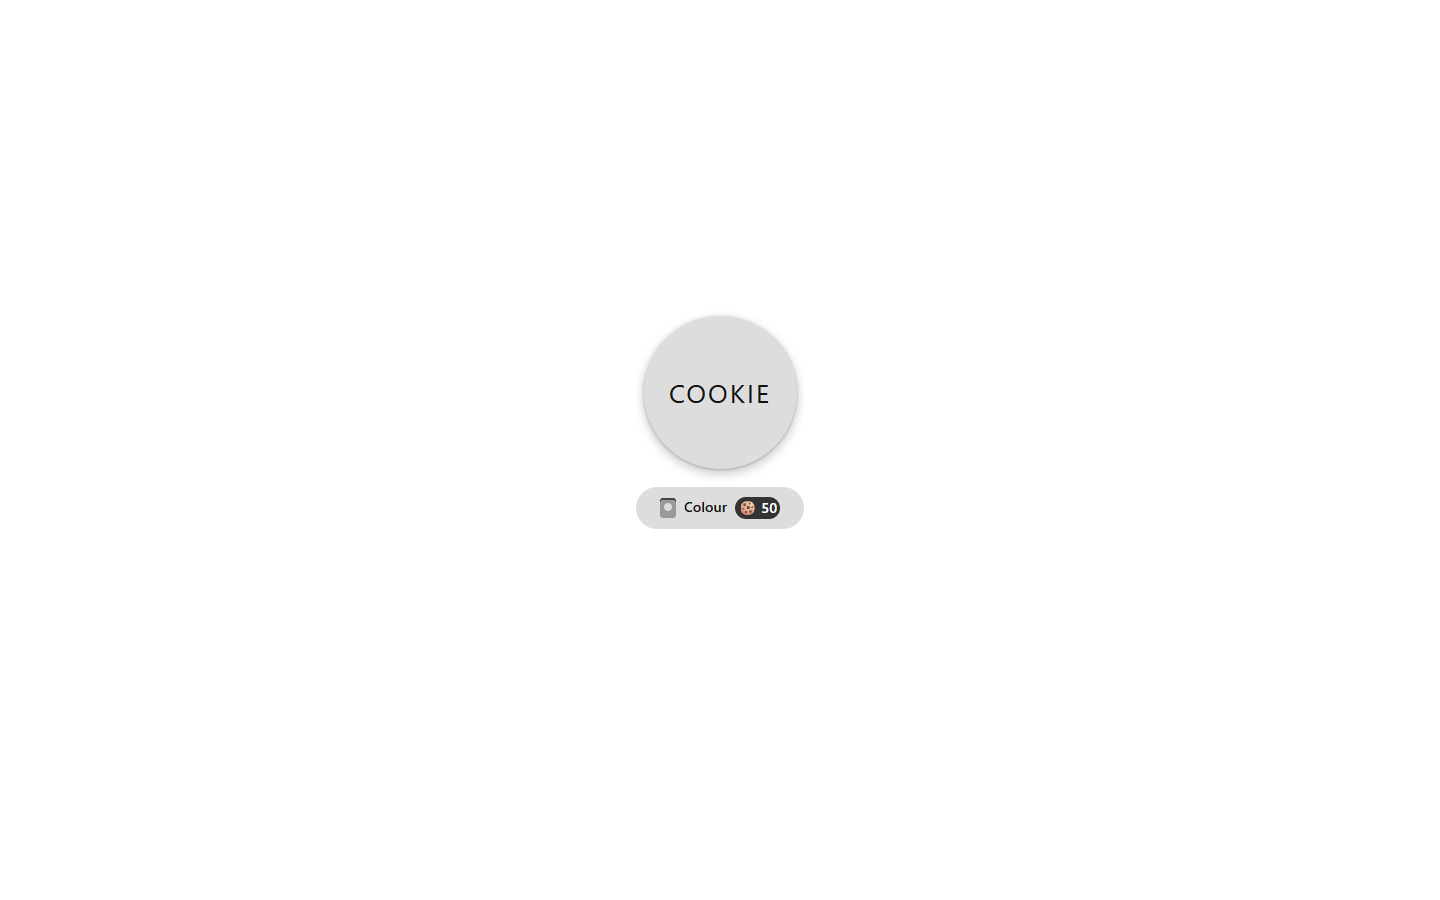
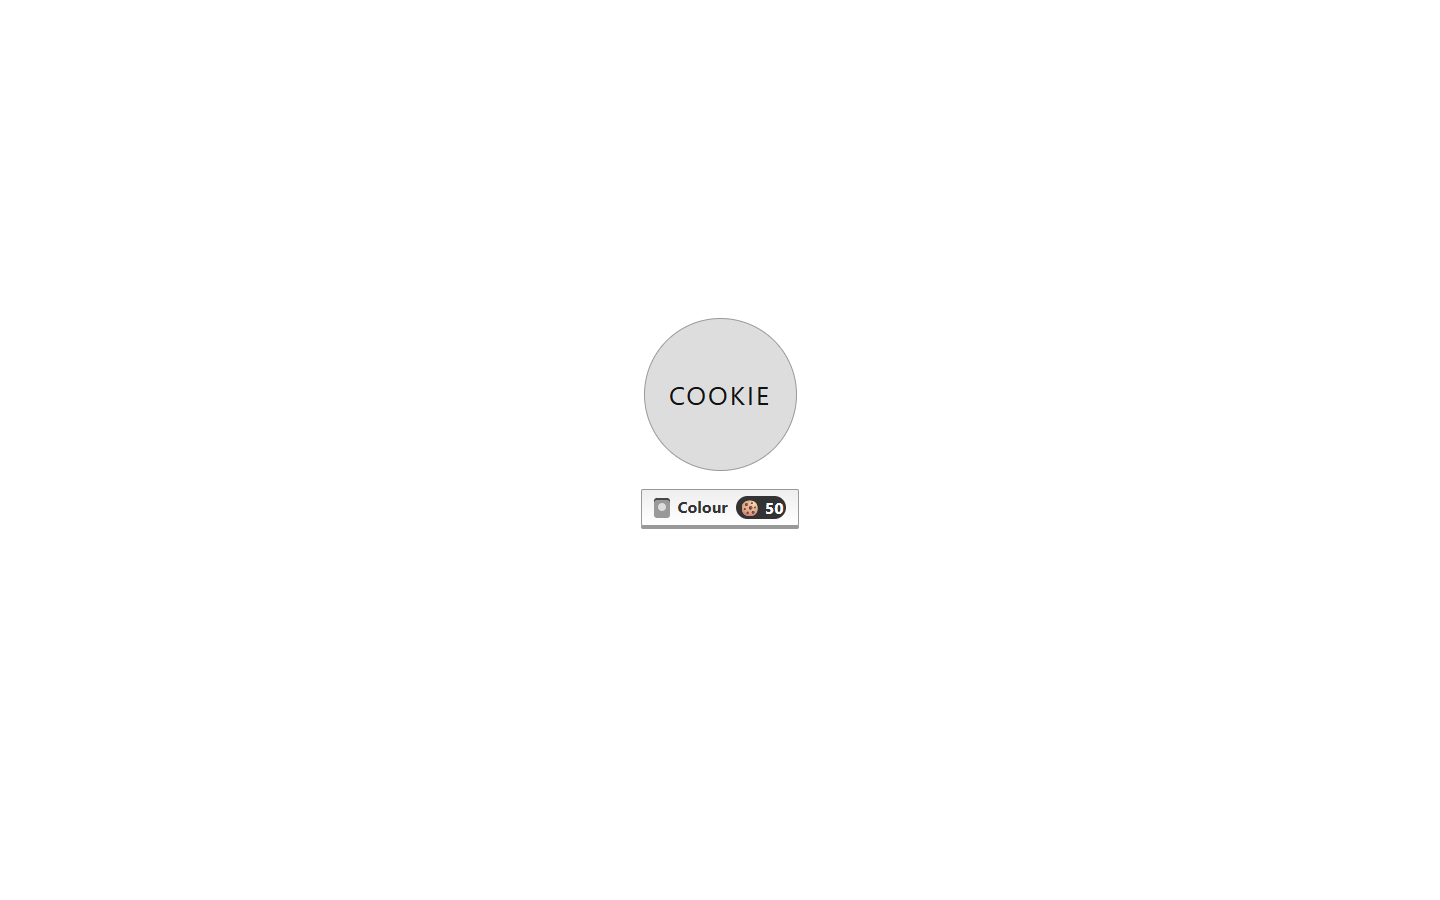
Recapture the graphics evidence against the reverted look
The three graphics-progression captures showed the Material Design 3 chrome that
was just removed, so they were evidence of a build that no longer exists. Recaptured
from the real built artifact through the cheap headless route, and repinned the
receipt and the release inventory to this commit with hashes recomputed from the
files themselves rather than copied forward.

The minigame button test asserted Material shape on a game surface, which is the
thing this project is now exempt from, so its shape assertion follows the arcade
requirement instead. Its layout assertions — 48px targets, inline-flex, wrapping —
are deliberately untouched: those fixed a real defect and no styling decision
releases them.

Suite is 73 files and 1040 tests green.

啲截圖影住嘅係啱啱拆走嗰套 Material 樣，即係影住個唔存在嘅 build。重新影過，收據同清單
嘅 hash 全部由檔案本身重新計，冇抄舊嘅。個掣嘅測試改咗形狀嗰句跟返街機，但 48px、
inline-flex、換行嗰幾句冇郁——嗰啲修過真 bug，唔關樣貌事。

Changed region(s): [[0.4375, 0.4978, 0.5625, 0.5911], [0.4688, 0.4044, 0.5312, 0.4667], [0.4688, 0.3422, 0.5312, 0.3733]]

diff --git a/tests/game/ui-minigame-buttons.test.ts b/tests/game/ui-minigame-buttons.test.ts
@@ -79,7 +79,22 @@ describe('hand-written minigame button inventory', () => {
 });
 
 describe('Material action anatomy and cascade', () => {
-  it('beats the generic normalization with explicit 48px button anatomy', () => {
+  /**
+   * This asserted Material Design 3 shape on a GAME surface. On 2026-08-20 the owner exempted this
+   * project from Material Design 3 ("i never said to migrate to material design 3"), so the minigame
+   * actions now take the arcade treatment that `.buy-btn` uses. The assertion below was updated to
+   * the shape the requirement now calls for.
+   *
+   * Worth being explicit, because AGENTS.md warns against exactly the move this resembles: editing a
+   * test to match the code is how a real defect gets papered over. That is not what happened here.
+   * The requirement changed by an owner decision, and the test follows the requirement. The LAYOUT
+   * assertions — 48px targets, inline-flex, wrapping — are untouched, because they fixed a real
+   * defect and no styling decision releases them.
+   *
+   * There is also no longer a "generic normalization" to beat: the blanket button rule this title
+   * referred to was removed in the same change. See tests/no-m3-remigration.test.ts.
+   */
+  it('keeps explicit 48px button anatomy and the arcade shape', () => {
     const base = balancedBlock(css, ACTION_BASE_SELECTOR);
     expect(base).toMatch(/^\s*appearance:\s*none\s*;/m);
     expect(base).toMatch(/^\s*-webkit-appearance:\s*none\s*;/m);
@@ -87,7 +102,10 @@ describe('Material action anatomy and cascade', () => {
     expect(base).toMatch(/^\s*min-block-size:\s*48px\s*;/m);
     expect(base).toMatch(/^\s*min-inline-size:\s*48px\s*;/m);
     expect(base).toMatch(/^\s*border:\s*1px solid var\(--md3-action-outline, transparent\)\s*;/m);
-    expect(base).toMatch(/^\s*border-radius:\s*var\(--md-sys-shape-corner-full\)\s*;/m);
+    expect(base).toMatch(/^\s*border-radius:\s*var\(--shape-full\)\s*;/m);
+    // The arcade press shadow and display face, matching .buy-btn rather than a flat Material fill.
+    expect(base).toMatch(/^\s*box-shadow:\s*0 4px 0 0 var\(--primary-shadow\)\s*;/m);
+    expect(base).toMatch(/^\s*font-family:\s*var\(--font-display\)\s*;/m);
     expect(base).toContain('var(--md3-action-container');
     expect(base).toContain('var(--md3-action-ink');
     expect(base).toMatch(/^\s*white-space:\s*normal\s*;/m);
